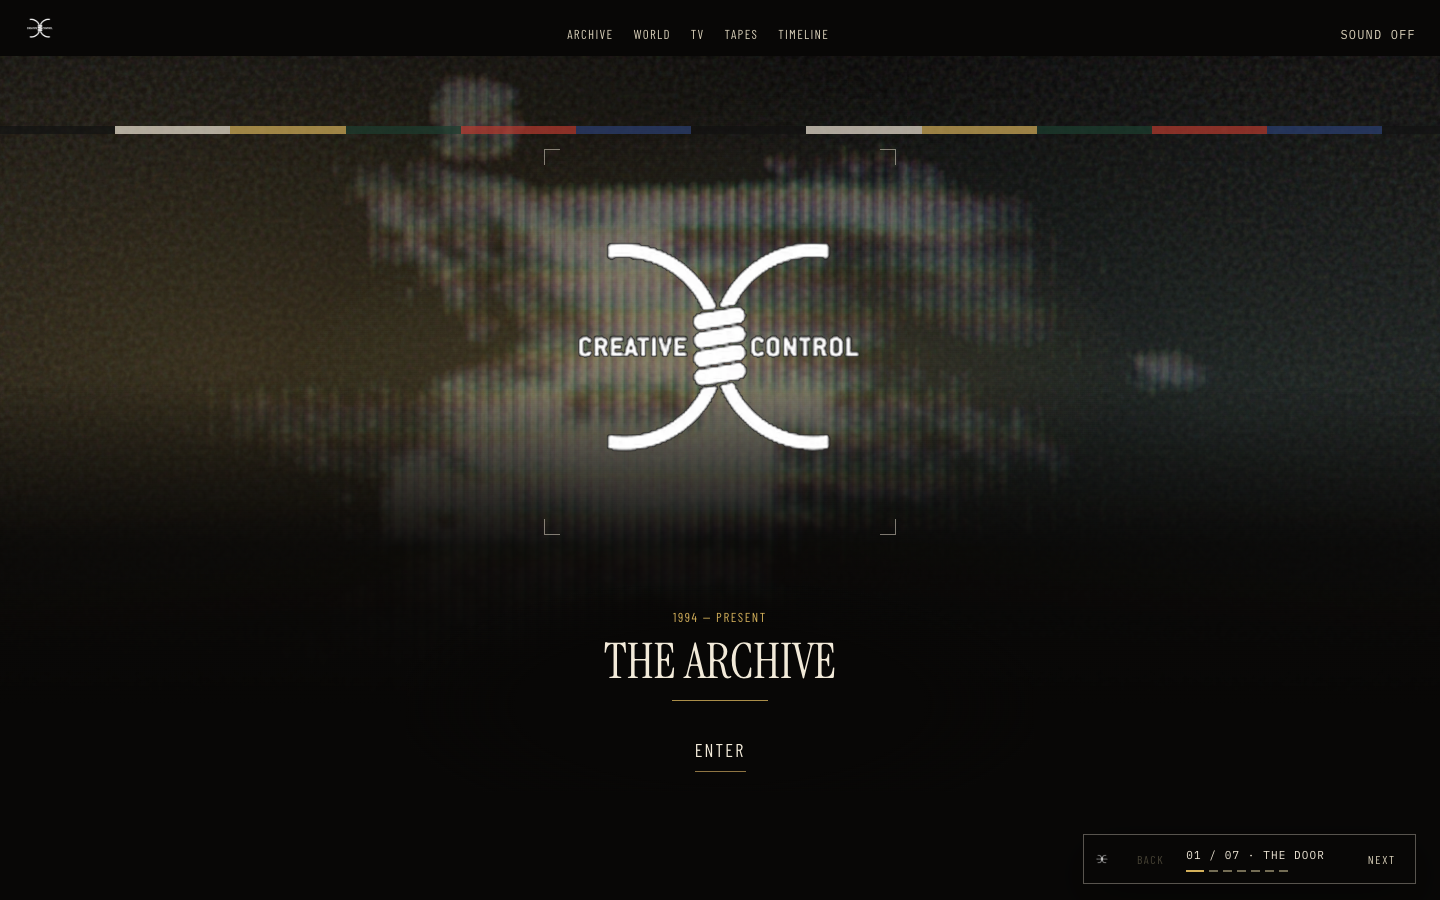
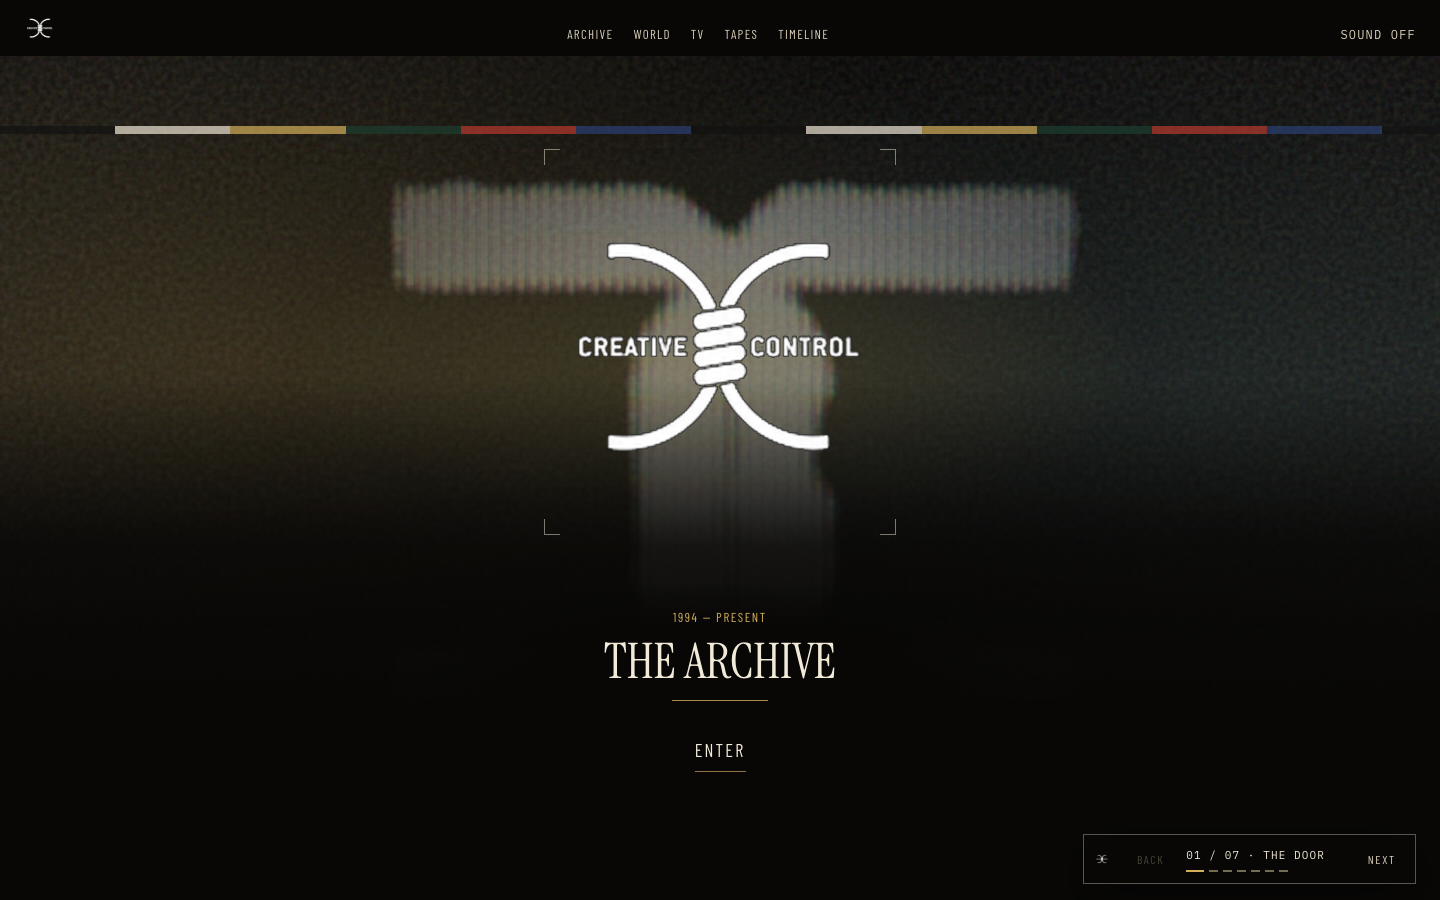
coodie-proof: re-capture the walk from live production
All seven stills re-captured at 1440x900 by walking /?present=1 on live
prod after the one-list / one-caption / one-cassette / one-scope pass.
05 official air, 06 CC-0217 and 07 span all changed visibly; the rest are
refreshed so the package is one capture session.

Added 08-the-guide.png outside the walk. The show hides GUIDE so each
scene carries one idea, but CH 07's listing is the thing to point at if
the question is what is actually in there: 366 titles in one scroll.

README links /tv rather than /tv?ch=7 since the page now opens on 07.

diff --git a/docs/coodie-proof/README.md b/docs/coodie-proof/README.md
@@ -1,6 +1,8 @@
 # Coodie proof — share package
 
-The live presentation is the proof — send the URL, not the pictures. The seven PNGs here are the walk itself, captured from live at 1440 × 900 on 10 Sep 2026 by pressing Space through `/?present=1`. Each filename is its scene. Use them only if Coodie cannot open the link; re-capture after any visible change so the stills never promise something the live show does not do.
+The live presentation is the proof — send the URL, not the pictures. The seven numbered PNGs are the walk itself, captured from live production at 1440 × 900 on 10 Sep 2026 by pressing Space through `/?present=1`. Each filename is its scene. Use them only if Coodie cannot open the link; re-capture after any visible change so the stills never promise something the live show does not do.
+
+`08-the-guide.png` is **not part of the walk** — the show hides GUIDE so each scene carries one idea. It is here because the CH 07 listing is the thing to point at if the question is *what's actually in there*: 366 official titles in one scroll, no menus.
 
 James sends. Do not mark the archive goal complete after he walks it. Pause the goal yourself — this package cannot.
 
@@ -35,11 +37,11 @@ This is a prototype of the archive itself — not the Framer reel on creativecon
 | House | https://creativecontrol-tv.vercel.app |
 | Chicago fly | https://creativecontrol-tv.vercel.app/world?city=chicago&fly=1 |
 | One record | https://creativecontrol-tv.vercel.app/archive?person=ye&location=chicago&year=2002&type=Studio |
-| CH 07 | https://creativecontrol-tv.vercel.app/tv?ch=7 |
+| CH 07 (`/tv` opens here) | https://creativecontrol-tv.vercel.app/tv |
 | CC-0217 | https://creativecontrol-tv.vercel.app/tapes?open=t-0217 |
 | Span | https://creativecontrol-tv.vercel.app/timeline |
 
-Official air is **CH 07**, not the vault. 366 is the official YouTube listing wired into the mock — not the catalog.
+Official air is **CH 07**, not the vault — `/tv` opens on it, and its GUIDE is one scroll of all **366** titles with no menus. 366 is the official YouTube listing wired into the mock — not the catalog.
 
 ## Seven-scene walk
 
@@ -54,6 +56,8 @@ One idea per scene. The presentation deliberately leaves the empty leftover clip
 | 05 | Official air | `05-official-air.png` | Creative Control can broadcast through a focused television surface. |
 | 06 | CC-0217 | `06-cc-0217.png` | Every story can lead back to a physical source. |
 | 07 | Span | `07-span.png` | The archive stretches from 1994 through 2026 without pretending every year is already complete. |
+
+Outside the walk: `08-the-guide.png` — CH 07's listing, 366 titles in one scroll, for the *what's in there* question.
 
 ## Ask him — do not guess
 
